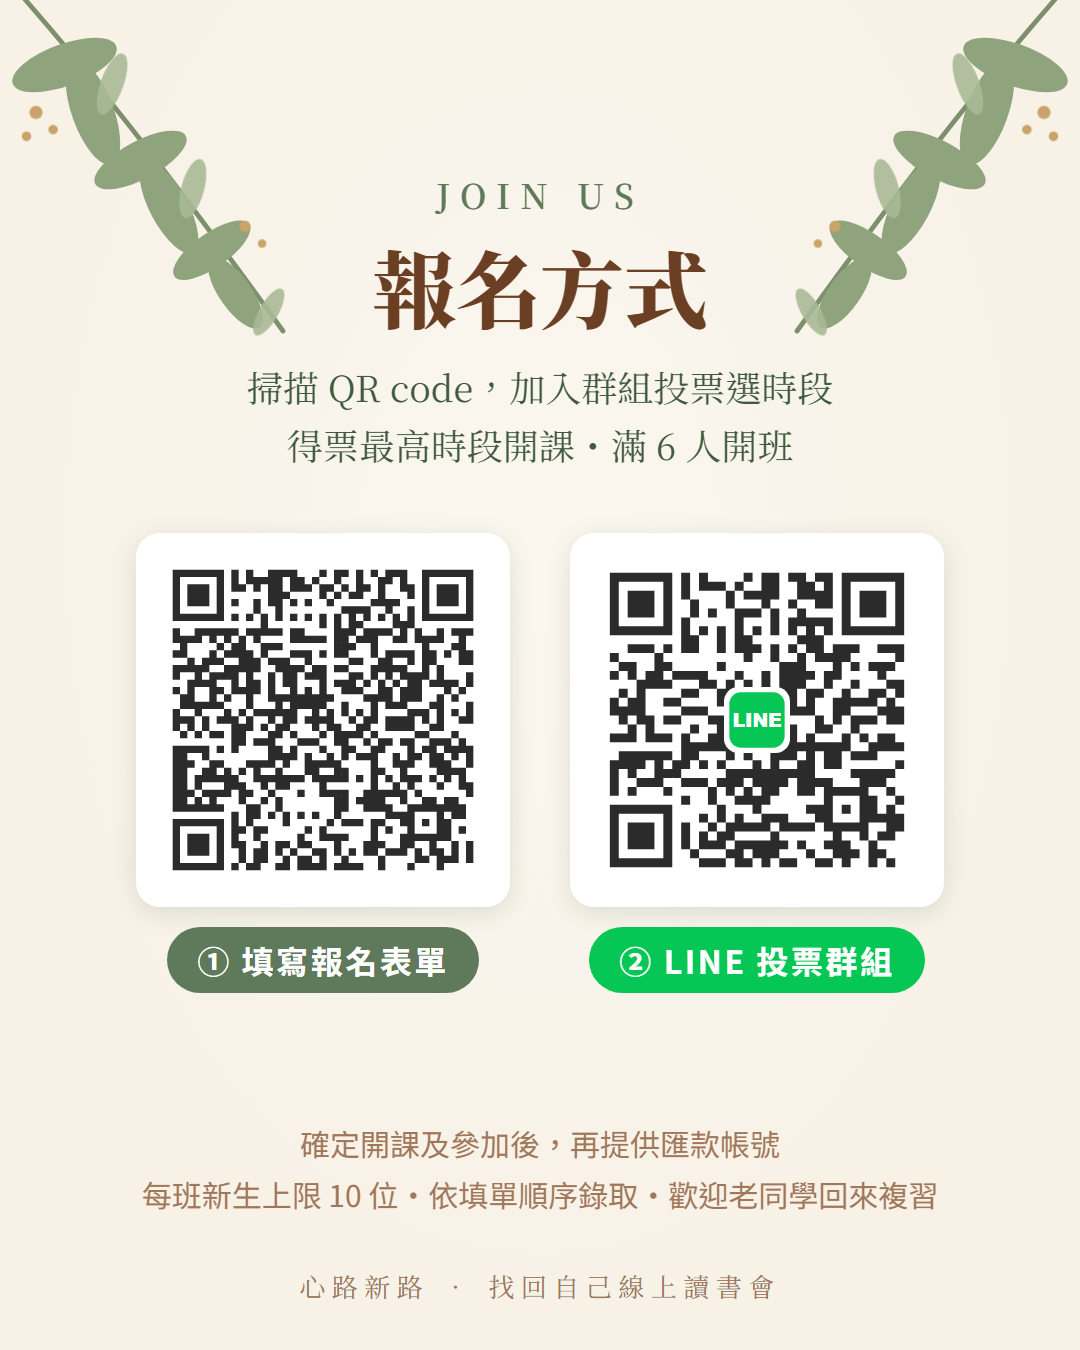
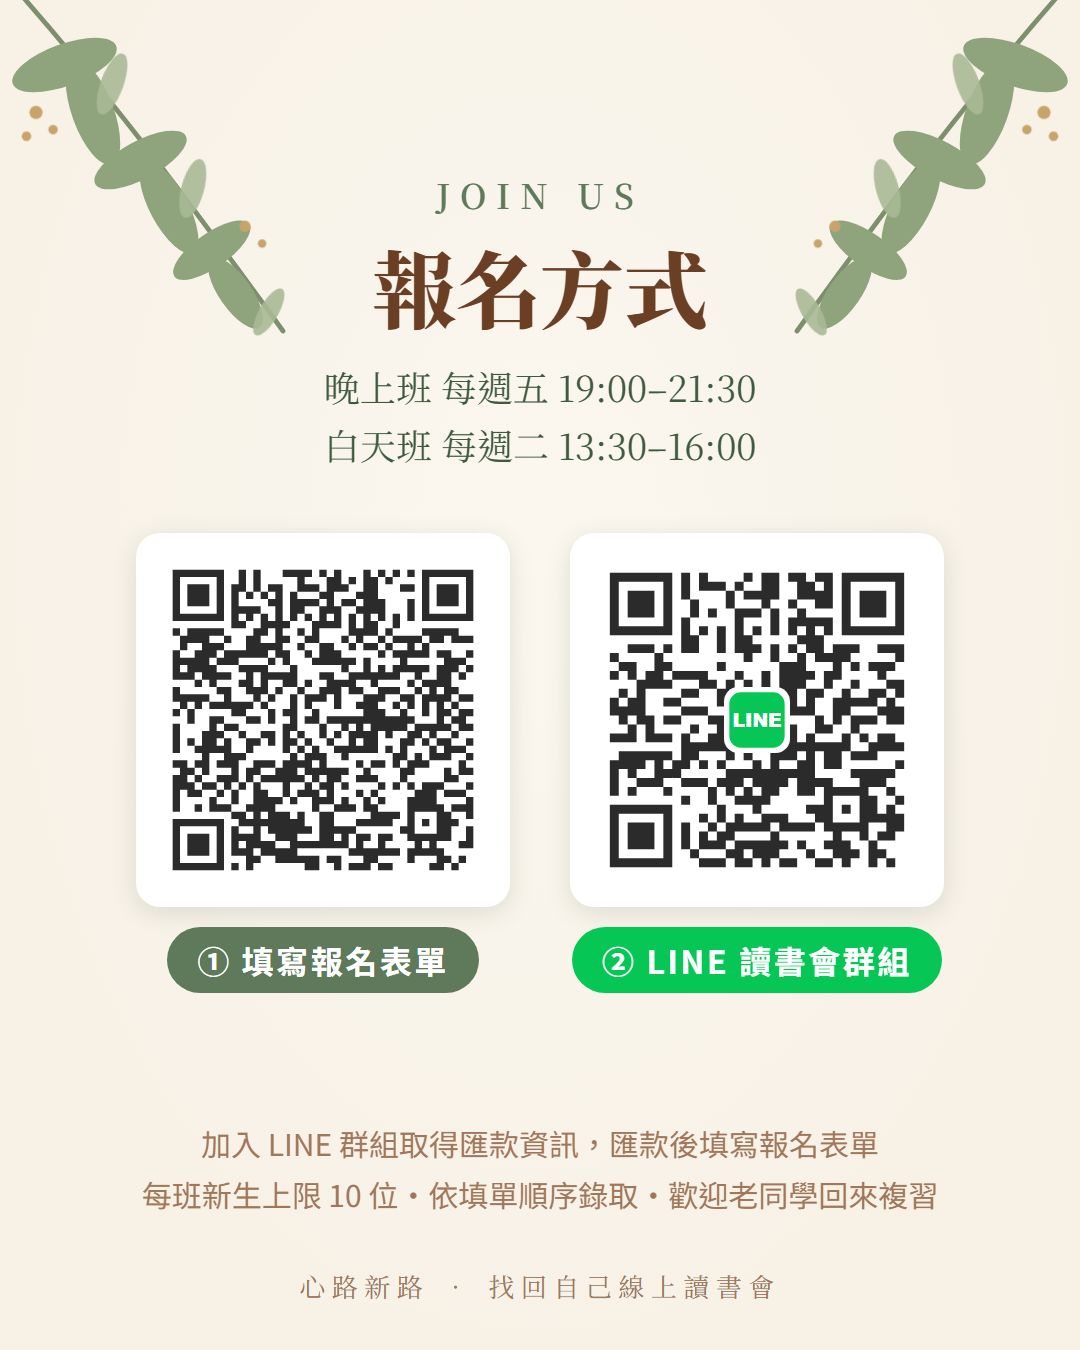
Confirm reading group class times and switch to new signup form
- Evening class Fri 19:00-21:30, day class Tue 13:30-16:00; remove voting wording
- Point signup buttons to the new registration form
- Refresh cover and signup images (new form QR code)

diff --git a/index.html b/index.html
@@ -737,11 +737,11 @@
                         <div class="sub-item-box" style="border-left:none; box-shadow:none; background:transparent; padding:6px 0; margin-bottom:12px;">
                             <div class="sub-item-title" style="color:#1B5E20; text-decoration:none;">📢 最新當期招生資訊</div>
                             <p class="sub-item-desc" style="margin-bottom:10px;">現在正進行報名的是第 21、22 期讀書會。兩期的讀書會都用同一個群組。</p>
-                            <p class="sub-item-desc" style="margin-bottom:6px;"><strong>📖 2026年10月開始・線上讀書會</strong><br>晚上班：週四、週五晚上 7:00-9:30</p>
-                            <p class="sub-item-desc" style="margin-bottom:14px;">白天班：週二、週四、週五上午 9:30-12:00，週二、週五下午 1:30-4:00<br>（以得票數最高的時段開課，滿 6 人開班）</p>
+                            <p class="sub-item-desc" style="margin-bottom:6px;"><strong>📖 2026年10月開始・線上讀書會</strong><br>晚上班：每週五晚上 7:00-9:30</p>
+                            <p class="sub-item-desc" style="margin-bottom:14px;">白天班：每週二下午 1:30-4:00<br>（以上兩班已確定開班；其他時段若後續報名人數足夠，也會考慮開班）</p>
                             <p class="sub-item-desc" style="margin-bottom:4px;">(a) 每週一堂課，每堂 2.5 小時，共 15 堂課</p>
                             <p class="sub-item-desc" style="margin-bottom:4px;">(b) 請假可看回放影片補課</p>
-                            <p class="sub-item-desc">(c) 有意願者請加入讀書會群組，並在群組中投票選擇上課時段</p>
+                            <p class="sub-item-desc">(c) 有意願者請加入讀書會群組，並填寫新的報名表單</p>
                             <p class="sub-item-desc" style="margin-top:10px;"><a href="bible-self.html" style="color:#1B5E20; font-weight:bold;">👉 查看完整課程介紹、課程大綱與報名方式</a></p>
                         </div>
 
@@ -1567,7 +1567,7 @@
             camp:      { registerLabel:'📝 填寫報名表單', registerFn: () => openBookingModal('兒童青少年課程及營隊'), groupLabel:'💬 加官方LINE好友', groupUrl:'https://line.me/R/ti/p/@431trrjk' },
             adult:     { registerLabel:'📝 填寫報名表單', registerFn: () => openBookingModal('個人成長課程'), groupLabel:'💬 加官方LINE好友', groupUrl:'https://line.me/R/ti/p/@431trrjk' },
             elder:     { registerLabel:'📝 填寫報名表單', registerFn: () => openBookingModal('樂齡成長課程'), groupLabel:'💬 加官方LINE好友', groupUrl:'https://line.me/R/ti/p/@431trrjk' },
-            bible:     { registerLabel:'📝 填寫報名表單', registerFn: () => window.open('https://docs.google.com/forms/d/e/1FAIpQLSfTHfxYjzN0XPKSakZP3eNYgC3XrvWgF1-dg9-Sa8GcLn-IGA/viewform','_blank'), groupLabel:'👥 加入讀書會群組', groupUrl:'https://line.me/ti/g/Ba5eCG3vKS' },
+            bible:     { registerLabel:'📝 填寫報名表單', registerFn: () => window.open('https://docs.google.com/forms/d/e/1FAIpQLSdxa9KJyO6Rk56gZrCHKfC5KDPv3KMFYPeJrDcV3fpcNitDgQ/viewform','_blank'), groupLabel:'👥 加入讀書會群組', groupUrl:'https://line.me/ti/g/Ba5eCG3vKS' },
             garden:    { registerLabel:'📖 前往生命故事花園', registerFn: () => window.open('life-stories.html','_blank'), groupLabel:'💬 加官方LINE好友', groupUrl:'https://line.me/R/ti/p/@431trrjk' },
             column:    { registerLabel:'✍ 前往心路新路專欄', registerFn: () => window.open('columns.html','_blank'), groupLabel:'💬 加官方LINE好友', groupUrl:'https://line.me/R/ti/p/@431trrjk' },
             footprint: { registerLabel:'📝 填寫報名表單', registerFn: () => openBookingModal('尚未確定，請與我聯繫'), groupLabel:'💬 加官方LINE好友', groupUrl:'https://line.me/R/ti/p/@431trrjk' },
@@ -1820,7 +1820,7 @@
             elder_power: "【樂齡成長課程 ── 肌力課程】\n\n專為長輩量身設計的專業、安全身體活動引導，有效預防肌少症，維持身體的豐沛活力與日常功能防護防禦力資料。",
             elder_hobby: "【樂齡成長課程 ── 興趣小組與生活美學】\n\n多元豐富的社交活動、生活美學小組與讀書分享，陪伴長者擴展社交圈，快樂無憂地建立第二精彩人生詳細介紹。",
             
-            bible_info: "【心路新路「找回自己」線上讀書會 ── 最新當期招生訊息】\n\n📖 2026年十月份週間白天班、晚上班　第21、22期熱情招生中\n\n如果你需要搞清楚自己到底是怎麼樣的一個人\n如果你需要把自己找回來\n如果你需要為目前的生命挑戰找到新的方向及力量\n如果你需要真誠地被聆聽\n如果你需要了解跟你不一樣的人到底是怎麼想的\n\n你將會在這個CP值超高的讀書會經歷超乎想像的豐富、收穫、支持以及愛。課程最後，每位同學將獲贈一堂100分鐘一對一諮詢，將生命歷程做統整性的分析歸納整理。\n\n【上課時間】\n2026年10月開始，一堂2.5小時，共十五堂。請假可看回放影片補課。\n晚上班：週四、週五晚上7:00-9:30，兩個時段開放投票。\n白天班：週二、週四、週五上午9:30-12:00，週二、週五下午1:30-4:00，五個時段開放投票。\n將以得票數最高的時段開課，滿6人開班。\n\n有意願上課者請掃描QR code進入讀書會群組詢問相關問題並參與時段投票。歡迎老同學回來複習，費用自由奉獻！\n\n【上課地點】線上讀書會\n\n【費用】9,000元，共15堂課（一堂2.5小時）。講義印製及寄送費用，實支實付。如有困難一次繳清全期費用，可分期；確定開班、時間可配合後再繳費。\n\n【帶領老師：邱雪媚】\n學歷：台北市立師院幼教系畢業、衛理神學研究院教牧諮商碩士、道學碩士畢業，現為衛理神學研究院教牧學博士研究生。\n現任：心路新路個人成長中心工作室負責人、教牧協談學會教牧協談師、拿撒勒神學院教牧輔導老師，常應邀至社區、國小進行親職講座、教師研習。\n曾任：宇宙光關懷輔導中心教牧輔導員、台灣教牧協談學會秘書長。\n合作過單位：仁愛國小、明倫國小、桃園中壢興仁國小、國語實小、彭福國小、佳音幼兒園、純得幼兒園、葫蘆幼兒園、安坑國小、蘆洲國小、八里國小、牡丹國小、1919救助協會、伊甸基金會、新竹人本基金會、新竹世界展望會、樂福社區關懷協會、勵友中心、伯大尼兒少家園⋯等。\n專長：教牧協談（成人、兒童、家庭協談、婚姻協談、婚前協談）、婚姻講座、親職訓練及講座、兒童師資訓練、三一原型尋見真我讀書會、同理心訓練、基本協談技巧。\n\n【課程介紹】\n閱讀書籍：《從聖經中尋見真我》，作者林瑜琳，使徒出版社出版，請於讀書會開始前自行購買。\n博客來：https://shop.campus.org.tw/ProductDetails.aspx?ProductID=000523400\n\n小班制：每班招收上限新生十位，以填單順序錄取，確保每個人都有足夠的分享時間。\n\n許多人對心理成長很有興趣，也上了很多課程，卻不知如何運用。您需要的是可以帶著您細細整理自己生命經驗的讀書會！隨著讀書會進行，您將逐步完成生命歷程的書寫，也將擁有從神而來的新眼光，看見新的方向。\n\n有興趣進一步學習關懷技巧者，均須先在此讀書會完成自己生命歷程的梳理，方能參加進階課程喔！\n\n如果您有以下情況，這個讀書會就是您所需要的：\n★想要更認識自己，及明白上帝對自己生命的帶領\n★理性上知道需要接納、鼓勵孩子或配偶，但就是會看不慣其言行舉止，有意無意說出破壞關係的話\n★一直覺得自己不夠好，深受低自信、羞愧的困擾\n★希望學習有效關懷、幫助他人\n\n很多成員在過程中如釋重負、豁然開朗地說：「我現在終於知道自己為什麼會這樣了」、「我知道接下去該怎麼面對生命的問題了！」\n\n從聖經中尋見自己的生命，會讓您驚訝——自己生命的祝福、美好及力量，超過自己原本的想像。",
+            bible_info: "【心路新路「找回自己」線上讀書會 ── 最新當期招生訊息】\n\n📖 2026年十月份週間白天班、晚上班　第21、22期熱情招生中\n\n如果你需要搞清楚自己到底是怎麼樣的一個人\n如果你需要把自己找回來\n如果你需要為目前的生命挑戰找到新的方向及力量\n如果你需要真誠地被聆聽\n如果你需要了解跟你不一樣的人到底是怎麼想的\n\n你將會在這個CP值超高的讀書會經歷超乎想像的豐富、收穫、支持以及愛。課程最後，每位同學將獲贈一堂100分鐘一對一諮詢，將生命歷程做統整性的分析歸納整理。\n\n【上課時間】\n2026年10月開始，一堂2.5小時，共十五堂。請假可看回放影片補課。\n晚上班：每週五晚上7:00-9:30（已確定開班）。\n白天班：每週二下午1:30-4:00（已確定開班）。\n其他時段若後續報名人數足夠，也會考慮開班。\n\n有意願上課者請掃描QR code進入讀書會群組詢問相關問題，並填寫報名表單。歡迎老同學回來複習，費用自由奉獻！\n\n【上課地點】線上讀書會\n\n【費用】9,000元，共15堂課（一堂2.5小時）。講義印製及寄送費用，實支實付。如有困難一次繳清全期費用，可分期；確定開班、時間可配合後再繳費。\n\n【帶領老師：邱雪媚】\n學歷：台北市立師院幼教系畢業、衛理神學研究院教牧諮商碩士、道學碩士畢業，現為衛理神學研究院教牧學博士研究生。\n現任：心路新路個人成長中心工作室負責人、教牧協談學會教牧協談師、拿撒勒神學院教牧輔導老師，常應邀至社區、國小進行親職講座、教師研習。\n曾任：宇宙光關懷輔導中心教牧輔導員、台灣教牧協談學會秘書長。\n合作過單位：仁愛國小、明倫國小、桃園中壢興仁國小、國語實小、彭福國小、佳音幼兒園、純得幼兒園、葫蘆幼兒園、安坑國小、蘆洲國小、八里國小、牡丹國小、1919救助協會、伊甸基金會、新竹人本基金會、新竹世界展望會、樂福社區關懷協會、勵友中心、伯大尼兒少家園⋯等。\n專長：教牧協談（成人、兒童、家庭協談、婚姻協談、婚前協談）、婚姻講座、親職訓練及講座、兒童師資訓練、三一原型尋見真我讀書會、同理心訓練、基本協談技巧。\n\n【課程介紹】\n閱讀書籍：《從聖經中尋見真我》，作者林瑜琳，使徒出版社出版，請於讀書會開始前自行購買。\n博客來：https://shop.campus.org.tw/ProductDetails.aspx?ProductID=000523400\n\n小班制：每班招收上限新生十位，以填單順序錄取，確保每個人都有足夠的分享時間。\n\n許多人對心理成長很有興趣，也上了很多課程，卻不知如何運用。您需要的是可以帶著您細細整理自己生命經驗的讀書會！隨著讀書會進行，您將逐步完成生命歷程的書寫，也將擁有從神而來的新眼光，看見新的方向。\n\n有興趣進一步學習關懷技巧者，均須先在此讀書會完成自己生命歷程的梳理，方能參加進階課程喔！\n\n如果您有以下情況，這個讀書會就是您所需要的：\n★想要更認識自己，及明白上帝對自己生命的帶領\n★理性上知道需要接納、鼓勵孩子或配偶，但就是會看不慣其言行舉止，有意無意說出破壞關係的話\n★一直覺得自己不夠好，深受低自信、羞愧的困擾\n★希望學習有效關懷、幫助他人\n\n很多成員在過程中如釋重負、豁然開朗地說：「我現在終於知道自己為什麼會這樣了」、「我知道接下去該怎麼面對生命的問題了！」\n\n從聖經中尋見自己的生命，會讓您驚訝——自己生命的祝福、美好及力量，超過自己原本的想像。",
 
         };
 

diff --git a/bible-self.html b/bible-self.html
@@ -4,7 +4,7 @@
     <meta charset="UTF-8">
     <meta name="viewport" content="width=device-width, initial-scale=1.0">
     <title>第21、22期 心路新路「找回自己」線上讀書會｜2026年10月開課｜心路新路 邱雪媚</title>
-    <meta name="description" content="心路新路「找回自己」線上讀書會第21、22期，2026年10月開課。以聖經觀點帶你梳理生命經驗、認識自己、找回方向與力量。15堂小班制線上課程，白天班、晚上班投票選時段，每人加贈100分鐘一對一諮詢。帶領老師：邱雪媚（教牧協談師）。">
+    <meta name="description" content="心路新路「找回自己」線上讀書會第21、22期，2026年10月開課。以聖經觀點帶你梳理生命經驗、認識自己、找回方向與力量。15堂小班制線上課程，晚上班每週五 19:00–21:30、白天班每週二 13:30–16:00，每人加贈100分鐘一對一諮詢。帶領老師：邱雪媚（教牧協談師）。">
     <meta name="keywords" content="找回自己讀書會,線上讀書會,心路新路,邱雪媚,認識自己,自我探索,生命梳理,基督徒讀書會,教牧協談,生命成長課程">
     <link rel="canonical" href="https://xinlu-may.github.io/bible-self.html">
 
@@ -38,7 +38,7 @@
         "category": "Paid",
         "price": "9000",
         "priceCurrency": "TWD",
-        "url": "https://docs.google.com/forms/d/e/1FAIpQLSfTHfxYjzN0XPKSakZP3eNYgC3XrvWgF1-dg9-Sa8GcLn-IGA/viewform"
+        "url": "https://docs.google.com/forms/d/e/1FAIpQLSdxa9KJyO6Rk56gZrCHKfC5KDPv3KMFYPeJrDcV3fpcNitDgQ/viewform"
       },
       "hasCourseInstance": {
         "@type": "CourseInstance",
@@ -143,14 +143,14 @@
         <header class="hero-banner">
             <span class="tag-badge">2026年10月開課 ‧ 熱情招生中</span>
             <h1>🌿 心路新路「找回自己」線上讀書會</h1>
-            <p class="hero-sub">第 21、22 期 ‧ 週間白天班／晚上班</p>
+            <p class="hero-sub">第 21、22 期 ‧ 週五晚上班／週二下午班</p>
             <p class="hero-lead">
                 在經典的光照中梳理生命故事，<br>
                 找回最真實、被愛的自己
             </p>
             <div class="hero-btns">
-                <a href="https://docs.google.com/forms/d/e/1FAIpQLSfTHfxYjzN0XPKSakZP3eNYgC3XrvWgF1-dg9-Sa8GcLn-IGA/viewform" target="_blank" rel="noopener" class="cta-btn">✍ 填寫報名表單</a>
-                <a href="https://line.me/ti/g/Ba5eCG3vKS" target="_blank" rel="noopener" class="cta-btn line">👥 加入 LINE 投票群組</a>
+                <a href="https://docs.google.com/forms/d/e/1FAIpQLSdxa9KJyO6Rk56gZrCHKfC5KDPv3KMFYPeJrDcV3fpcNitDgQ/viewform" target="_blank" rel="noopener" class="cta-btn">✍ 填寫報名表單</a>
+                <a href="https://line.me/ti/g/Ba5eCG3vKS" target="_blank" rel="noopener" class="cta-btn line">👥 加入 LINE 讀書會群組</a>
             </div>
         </header>
 
@@ -175,10 +175,11 @@
                 <span class="info-text">2026 年 10 月開始，每堂 2.5 小時，共 15 堂。請假可以看回放影片補課。</span>
             </div>
             <div class="info-item">
-                <span class="info-label">🗳 開放投票的時段（請在 LINE 讀書會群組中投票，以得票數最高的時段開課，滿 6 人開班）</span>
+                <span class="info-label">🗓 上課時段（已確定開班）</span>
                 <span class="info-text">
-                    🌙 晚上班：週四、週五晚上 7:00–9:30（兩個時段）<br>
-                    ☀ 白天班：週二、週四、週五上午 9:30–12:00；週二、週五下午 1:30–4:00（五個時段）
+                    🌙 晚上班：每週五晚上 7:00–9:30<br>
+                    ☀ 白天班：每週二下午 1:30–4:00<br>
+                    其他時段若後續報名人數足夠，也會考慮開班。
                 </span>
             </div>
             <div class="info-item">
@@ -273,17 +274,17 @@
         <section class="cta-box" id="signup">
             <h2 style="font-size: 26px; color: #B71C1C; margin-bottom: 15px; font-weight: bold;">📝 我要報名讀書會</h2>
             <ol class="cta-steps">
-                <li>填寫報名表單</li>
-                <li>加入 LINE 讀書會群組，在群組的「投票」中勾選所有可以參加的時段</li>
-                <li>以選擇人數最多的時段開課，確定開課後再提供匯款帳號</li>
+                <li>加入 LINE 讀書會群組，取得匯款資訊</li>
+                <li>完成匯款</li>
+                <li>填寫報名表單（選擇班別，並填寫匯款日期與帳號後五碼）</li>
             </ol>
             <div class="hero-btns">
-                <a href="https://docs.google.com/forms/d/e/1FAIpQLSfTHfxYjzN0XPKSakZP3eNYgC3XrvWgF1-dg9-Sa8GcLn-IGA/viewform" target="_blank" rel="noopener" class="cta-btn">✍ 填寫報名表單</a>
-                <a href="https://line.me/ti/g/Ba5eCG3vKS" target="_blank" rel="noopener" class="cta-btn line">👥 加入 LINE 投票群組</a>
+                <a href="https://docs.google.com/forms/d/e/1FAIpQLSdxa9KJyO6Rk56gZrCHKfC5KDPv3KMFYPeJrDcV3fpcNitDgQ/viewform" target="_blank" rel="noopener" class="cta-btn">✍ 填寫報名表單</a>
+                <a href="https://line.me/ti/g/Ba5eCG3vKS" target="_blank" rel="noopener" class="cta-btn line">👥 加入 LINE 讀書會群組</a>
             </div>
             <div class="poster-grid">
-                <img src="images/bookclub-21-22/cover.png" width="1080" height="1350" loading="lazy" alt="心路新路找回自己線上讀書會第21、22期招生海報，2026年10月開課，週間白天班與晚上班">
-                <img src="images/bookclub-21-22/signup-qr.png" width="1080" height="1350" loading="lazy" alt="找回自己線上讀書會報名方式：報名表單與LINE投票群組QR code">
+                <img src="images/bookclub-21-22/cover.png" width="1080" height="1350" loading="lazy" alt="心路新路找回自己線上讀書會第21、22期招生海報，2026年10月開課，週五晚上班與週二下午班">
+                <img src="images/bookclub-21-22/signup-qr.png" width="1080" height="1350" loading="lazy" alt="找回自己線上讀書會報名方式：報名表單與LINE讀書會群組QR code">
             </div>
         </section>
 

diff --git a/events.html b/events.html
@@ -69,7 +69,7 @@
                         📅 <b>開課時間：</b>2026 年 10 月開始，共 15 堂 / 📍 <b>活動地點：</b>線上 / 👥 <b>適合對象：</b>想梳理生命故事、修復關係的成人
                     </div>
                     <p class="event-text">
-                        二十期深厚基礎的口碑王牌課程！週間白天班、晚上班開放投票選時段，小班制，每位同學加贈一堂 100 分鐘一對一諮詢。雪媚老師將帶領您細細整理自己的生命經驗，在經典的光照中接納最真實的自己，找回生命喜樂的力量。
+                        二十期深厚基礎的口碑王牌課程！已確定開班：週五晚上 7:00–9:30、週二下午 1:30–4:00，小班制，每位同學加贈一堂 100 分鐘一對一諮詢。雪媚老師將帶領您細細整理自己的生命經驗，在經典的光照中接納最真實的自己，找回生命喜樂的力量。
                     </p>
                     <a href="bible-self.html" class="event-btn btn-green">查看詳細課程說明 與 搶先登記名額 →</a>
                 </td>
